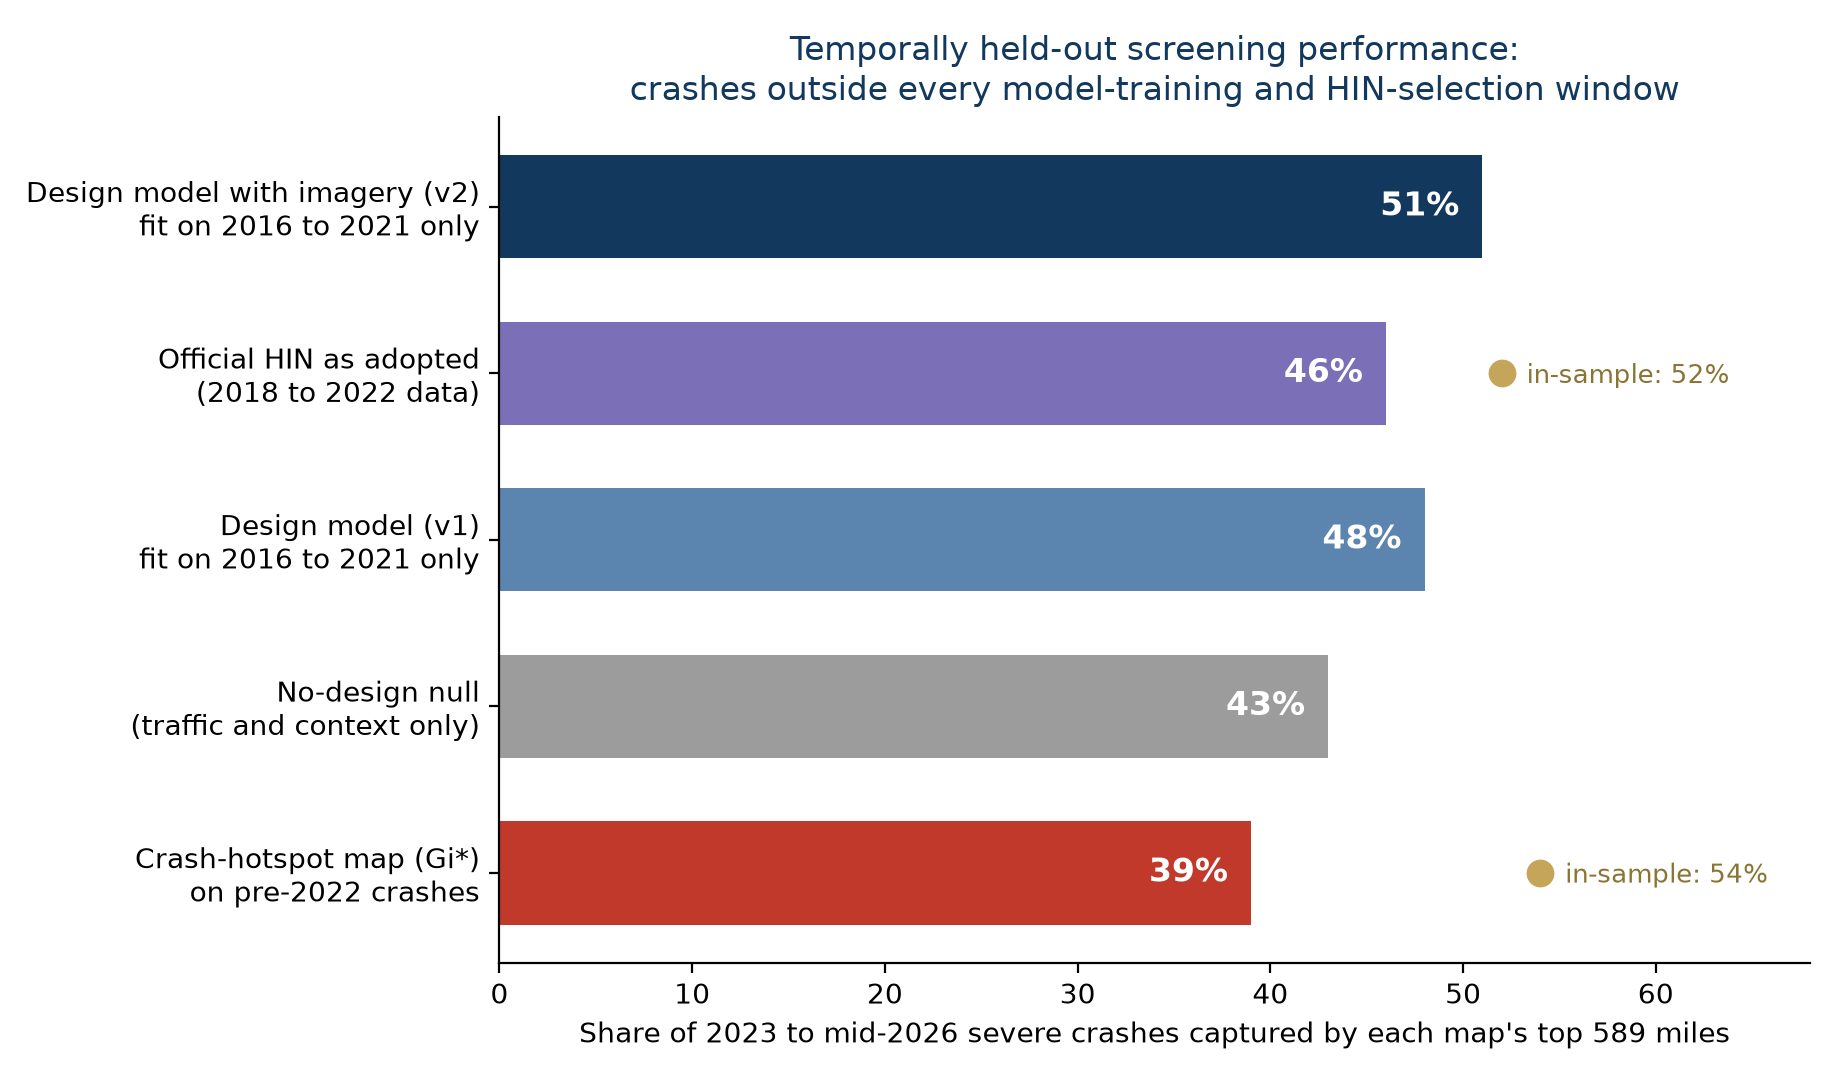
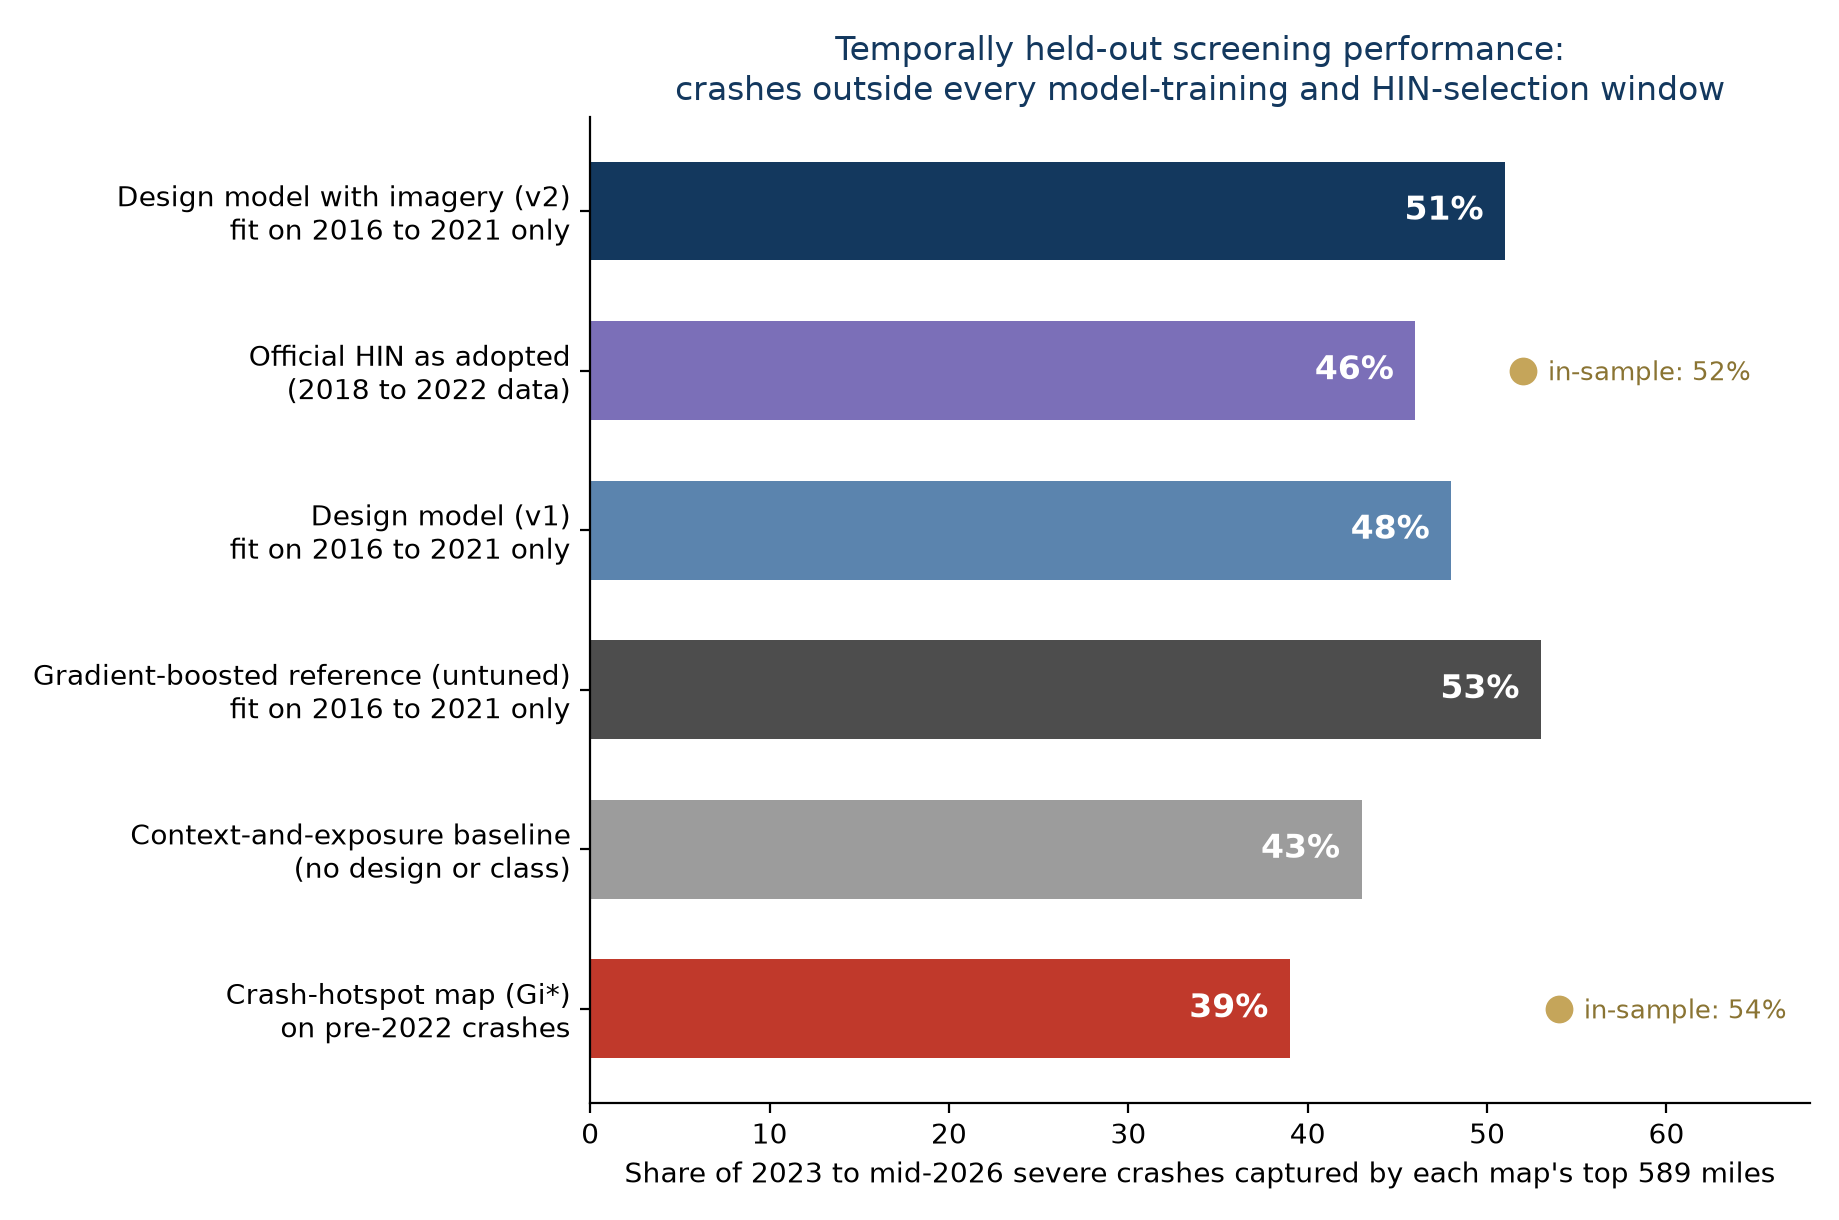
Round 6 polish: GBM bar added to Figure 3, temporal wording completed

diff --git a/src/plot_temporal_capture.py b/src/plot_temporal_capture.py
@@ -27,7 +27,8 @@ ROWS = [
     ("Design model with imagery (v2)\nfit on 2016 to 2021 only", 51, "#13385E", None),
     ("Official HIN as adopted\n(2018 to 2022 data)",             46, "#7B6FB8", 52),
     ("Design model (v1)\nfit on 2016 to 2021 only",              48, "#5B84AE", None),
-    ("No-design null\n(traffic and context only)",               43, "#9C9C9C", None),
+    ("Gradient-boosted reference (untuned)\nfit on 2016 to 2021 only", 53, "#4D4D4D", None),
+    ("Context-and-exposure baseline\n(no design or class)",      43, "#9C9C9C", None),
     ("Crash-hotspot map (Gi*)\non pre-2022 crashes",             39, "#C0392B", 54),
 ]
 
@@ -37,7 +38,7 @@ CAL_OBS = [34, 96, 119, 180, 296, 316, 489, 1070, 2028, 5092]
 
 
 def capture_fig():
-    fig, ax = plt.subplots(figsize=(9.2, 5.4))
+    fig, ax = plt.subplots(figsize=(9.2, 6.1))
     fig.patch.set_facecolor("white")
     labels = [r[0] for r in ROWS][::-1]
     vals = [r[1] for r in ROWS][::-1]
